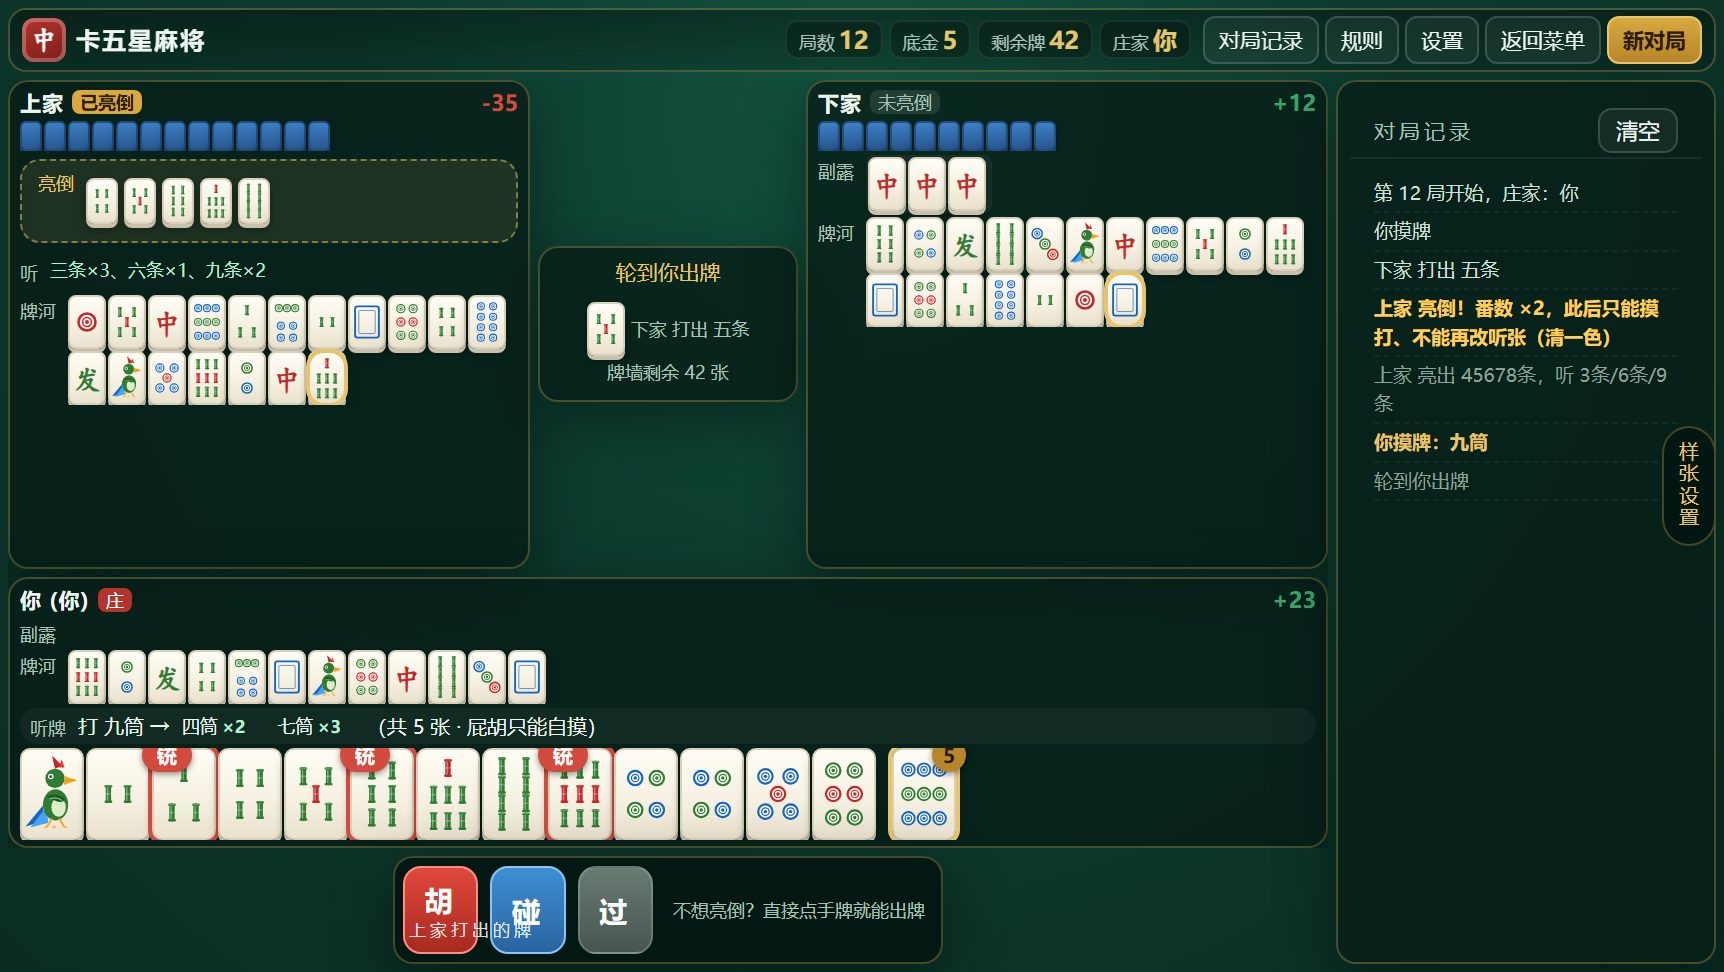
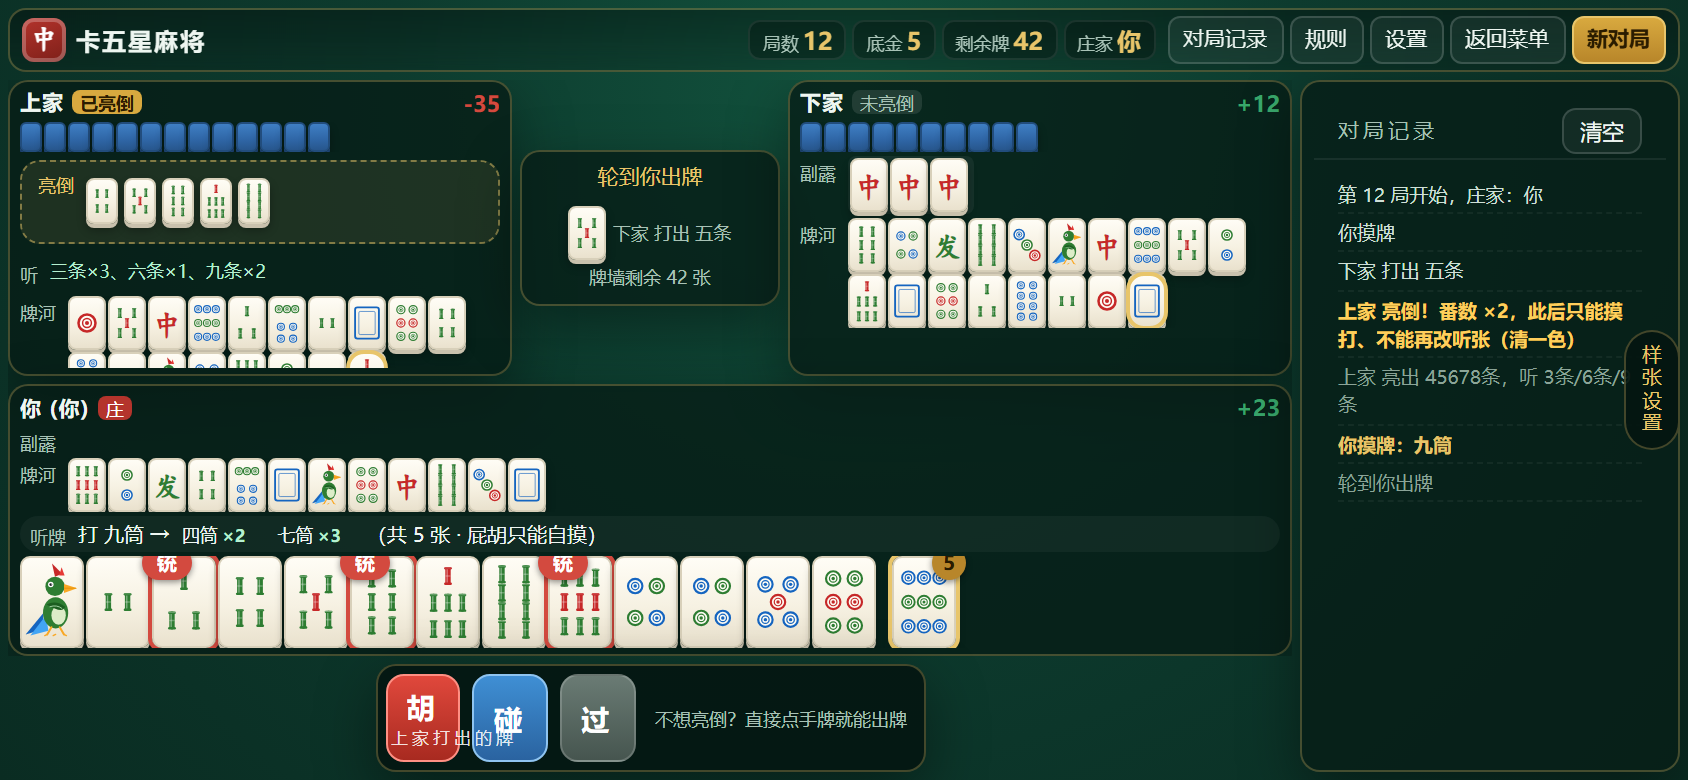
修竖屏下家被切：截图工具视口错误 + 亮倒状态下两块面板重叠
用户看到的「竖屏下家有一半看不到」是我给的截图有问题：headless Chrome 的
--window-size/--force-device-scale-factor 组合下，页面按 491px 宽排版、截图却只截
390px，右边 100px 被切掉。改用 puppeteer 精确设置 390x844 / 844x390 视口。

顺手查出并修掉一个真 bug：亮倒状态下「你」那块会向上盖住上家面板（-22px）——
原因是表格只有两行 auto/1fr，自己那块内容比 1fr 行还高就会向上溢出。
改成三段式 auto / 1fr(空档) / auto，两块都按内容定高，任何状态都不再重叠。

- 新增 tests/shots.js：puppeteer 精确视口截图 + 打印真实尺寸 + 重叠/横向溢出检查
- 竖屏听牌行的每段文字禁止换行（亮倒那行会撑成两行把下面挤下去）
- 竖屏对手牌河 5 行、自己 2 行
- 实测四种状态：竖屏间距 112 / 34、横屏 4 / 4，横向溢出均为 false
- 四张评审截图用正确视口重拍

diff --git a/tests/shots.js b/tests/shots.js
@@ -1,0 +1,71 @@
+/*
+ * 用 puppeteer 精确视口截图 + 量尺寸（开发用，不进仓库依赖）
+ * 用法： NODE_PATH=<装了 puppeteer-core 的 node_modules> node tests/shots.js
+ * 输出： preview/shots/*.png  +  控制台打印关键区块的真实尺寸
+ */
+'use strict';
+
+const path = require('path');
+const puppeteer = require('puppeteer-core');
+
+const CHROME = 'C:\\Program Files\\Google\\Chrome\\Application\\chrome.exe';
+const ROOT = path.join(__dirname, '..');
+const url = f => 'file:///' + path.join(ROOT, 'preview', f).replace(/\\/g, '/');
+
+const SHOTS = [
+  { name: 'portrait', file: 'portrait.html', w: 390, h: 844, q: '' },
+  { name: 'landscape', file: 'landscape.html', w: 844, h: 390, q: '' },
+  { name: 'self-liangdao', file: 'portrait.html', w: 390, h: 844, q: '?state=selfLd' },
+  { name: 'danger', file: 'landscape.html', w: 844, h: 390, q: '?state=danger' }
+];
+
+const SEL = ['#app', '.topbar', '.table', '.opponents', '.seat-opp', '.center-col', '.center-info',
+  '.seat-self', '#mHand', '.actionbar', '.sidebar', '.seat-opp .row.discards .discards-list',
+  '.seat-self .row.discards .discards-list'];
+
+(async () => {
+  const browser = await puppeteer.launch({
+    executablePath: CHROME,
+    headless: true,
+    pipe: false,
+    args: ['--no-sandbox', '--disable-gpu', '--hide-scrollbars', '--allow-file-access-from-files']
+  });
+  for (const s of SHOTS) {
+    const page = await browser.newPage();
+    await page.setViewport({ width: s.w, height: s.h, deviceScaleFactor: 2 });
+    await page.goto(url(s.file) + s.q, { waitUntil: 'load' });
+    await page.waitForFunction('window.PREVIEW !== undefined', { timeout: 5000 });
+    await new Promise(r => setTimeout(r, 120));
+    const out = path.join(ROOT, 'preview', 'shots', s.name + '.png');
+    await page.screenshot({ path: out });
+    const info = await page.evaluate((sels) => {
+      const r = { win: [window.innerWidth, window.innerHeight], bodyW: document.body.scrollWidth };
+      sels.forEach(sel => {
+        const n = document.querySelector(sel);
+        if (!n) { r[sel] = null; return; }
+        const b = n.getBoundingClientRect();
+        r[sel] = [Math.round(b.left), Math.round(b.top), Math.round(b.width), Math.round(b.height)];
+      });
+      // 有没有内容溢出可视宽度
+      r.overflowX = document.documentElement.scrollWidth > window.innerWidth;
+      return r;
+    }, SEL);
+    console.log('\n== ' + s.name + ' (' + s.w + 'x' + s.h + ') 视口=' + info.win.join('x') +
+      ' body宽=' + info.bodyW + ' 横向溢出=' + info.overflowX);
+    SEL.forEach(sel => {
+      const v = info[sel];
+      console.log('   ' + sel.padEnd(42) + (v ? (v[2] + 'x' + v[3] + ' @' + v[0] + ',' + v[1]) : '（无）'));
+    });
+    // 自己那块有没有向上盖住对手栏（差值为负就是重叠）
+    const opp = info['.opponents'], self = info['.seat-self'];
+    if (opp && self) {
+      const gap = self[1] - (opp[1] + opp[3]);
+      console.log('   >>> 对手栏底 ' + (opp[1] + opp[3]) + ' / 自己顶 ' + self[1] +
+        ' → 间距 ' + gap + (gap < 0 ? '  ❌ 重叠了！' : '  ✓'));
+    }
+    const allOverflow = info.overflowX;
+    if (allOverflow) console.log('   >>> ❌ 有横向溢出（右边会被切）');
+    await page.close();
+  }
+  await browser.close();
+})();

diff --git a/preview/preview.css b/preview/preview.css
@@ -206,10 +206,11 @@ body.portrait #app {
 }
 body.portrait .sidebar { display: none; }             /* 折叠进顶部「对局记录」按钮 → 悬浮窗 */
 /* 上面两块紧贴顶部（面板按内容高度，不再被拉成一整屏空白），自己那块贴底 */
-body.portrait .table { grid-template-rows: auto minmax(0, 1fr); }
-/* 面板紧凑：靠「牌河最多几行」来定高（对手 5 行 = 210px），不把整屏撑满 */
-body.portrait .opponents { grid-template-columns: minmax(0, 1fr) 118px minmax(0, 1fr); }
-body.portrait .seat-self { align-self: end; }
+/* 三段式：对手栏（内容高）— 弹性空档 — 自己（内容高贴底）
+   中间那行是 1fr 空档，两块都按内容定高，所以**任何状态下都不会互相盖住** */
+body.portrait .table { grid-template-rows: auto minmax(0, 1fr) auto; }
+body.portrait .opponents { grid-template-columns: minmax(0, 1fr) 118px minmax(0, 1fr); grid-row: 1; }
+body.portrait .seat-self { grid-row: 3; align-self: end; }
 /* 四个方框和中央信息要上下排（之前漏了 flex-direction，两者被挤成一行重叠） */
 body.portrait .center-col {
   flex-direction: column; align-items: stretch; justify-content: flex-start; gap: 4px;
@@ -227,11 +228,13 @@ body.portrait .center-meta { font-size: 10px; }
 body.portrait .actionbar { justify-self: stretch; }
 body.portrait .actionbar .hint-text { display: none; }   /* 竖屏放不下，藏掉 */
 body.portrait .actionbar .act { min-height: 50px; font-size: 15px; }
-body.portrait .seat-self .row.waits { flex-wrap: nowrap; }
-/* 面板紧凑：对手牌河最多 6 行、自己 3 行，都不会撑满整屏，中间留出桌面 */
+body.portrait .seat-self .row.waits { flex-wrap: nowrap; overflow: hidden; }
+/* 听牌行里每一个小片段都不许换行（否则亮倒那行会撑成两行，把下面的手牌挤下去） */
+body.portrait .seat-self .row.waits > * { white-space: nowrap; }
+/* 面板紧凑：对手牌河最多 5 行、自己 2 行 —— 用「行数」定高，不用百分比（网格里算不准） */
 body.portrait .seat-opp .row.discards { flex: 0 0 auto; }
-body.portrait .seat-opp .row.discards .discards-list { max-height: calc(var(--river-h) * 6 + 6px); overflow: hidden; }
-body.portrait .seat-self .row.discards .discards-list { max-height: calc(var(--river-h) * 3 + 3px); overflow: hidden; }
+body.portrait .seat-opp .row.discards .discards-list { max-height: calc(var(--river-h) * 5 + 5px); overflow: hidden; }
+body.portrait .seat-self .row.discards .discards-list { max-height: calc(var(--river-h) * 2 + 2px); overflow: hidden; }
 body.portrait .seat-self .row.waits { padding: 3px 6px; }
 
 /* ============================================================

diff --git a/tests/preview.smoke.js b/tests/preview.smoke.js
@@ -191,7 +191,7 @@ async function check(name, file) {
   test('切「我亮倒」：听张锁死、手牌变灰、只有刚摸那张可点', () => {
     click(win, $('[data-view="state:selfLd"]'));
     const waits = $('[data-opp="self"] .row.waits');
-    assert(/已亮倒/.test(waits.textContent) && /只能打刚摸的那张/.test(waits.textContent),
+    assert(/已亮倒/.test(waits.textContent) && /只能摸打/.test(waits.textContent),
       '听牌行应提示已亮倒只能摸打，实际：' + waits.textContent);
     eq(count('#mHand .tile.disabled'), 13, '13 张手牌应变灰');
     const drawn = $('#mHand .tile.just-drawn');

diff --git a/preview/preview.js b/preview/preview.js
@@ -197,7 +197,7 @@
 
     var wr = row('听牌', 'waits');
     if (isSelfLiangdao()) {
-      wr.appendChild(el('span', 'tag liangdao', '已亮倒 · 只能打刚摸的那张'));
+      wr.appendChild(el('span', 'tag liangdao', '已亮倒 · 只能摸打'));
     } else {
       wr.appendChild(el('span', 'dim', '打 ' + T.nameOf(D.drawn) + ' →'));
     }

diff --git a/README.md b/README.md
@@ -38,6 +38,8 @@
 手牌大小：紧凑 / 标准 / 大字 / 两行，牌河：完整 / 精简）。
 
 样张的结构与交互有冒烟测试兜底（需要 jsdom，仓库本体不带依赖）：`node tests/preview.smoke.js`
+样张截图 + 真实排版尺寸（需要 puppeteer-core + 本机 Chrome）：`node tests/shots.js`
+（另外任何一页加上 `?measure=1` 会把关键区块的尺寸直接画在页面上）
 
 ## 开始游戏界面
 
